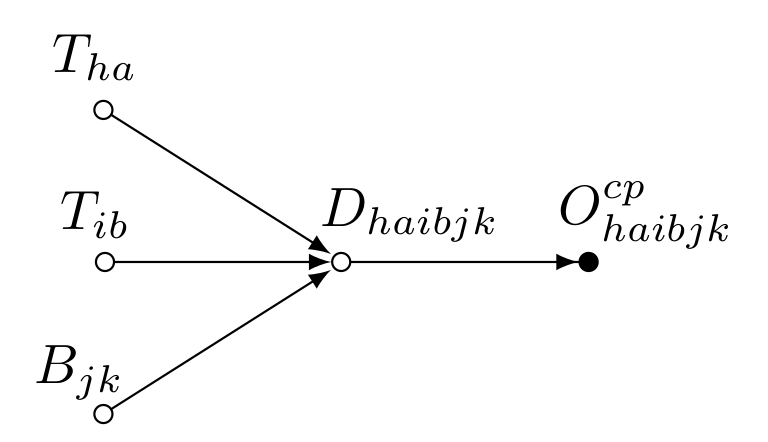
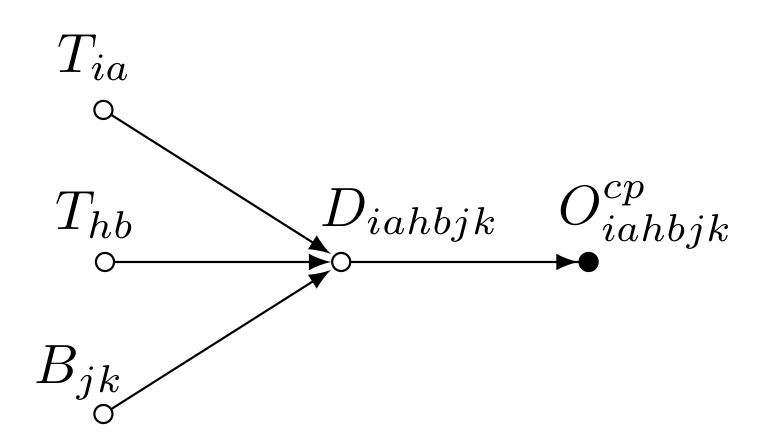
section:5; process:write,formulas

diff --git a/images/text/CJ_TM_02.tex b/images/text/CJ_TM_02.tex
@@ -8,20 +8,20 @@
 \begin{tikzpicture}
 
     % outcome
-    \node[gray] at (3.5,1) {$O^{cp}_{haibjk}$}; %[gray]
+    \node[gray] at (3.5,1) {$O^{cp}_{iahbjk}$}; %[gray]
 
     % difference
-    \node[gray] at (2,1) {$D_{haibjk}$}; %[gray]
+    \node[gray] at (2,1) {$D_{iahbjk}$}; %[gray]
     \draw[{Circle[open]}-{latex}{Circle},gray](1.5,0.7) to (3.2,0.7); %,gray
 
     %%%%%%%%%%%%%%%%%%%%%%%%%%%%%%%%%%%%%%%%%%%%%%%%%%%%%%%%%
 
     % "true" discriminal process for sub-unit
-    \node at (0,2) {$T_{ha}$}; %[gray]
+    \node at (0,2) {$T_{ia}$}; %[gray]
     \draw[{Circle[open]}-{latex}](0,1.7) to (1.5,0.75); %,gray 
     
     % "true" discriminal process for sub-unit
-    \node at (0,1) {$T_{ib}$}; %[gray]
+    \node at (0,1) {$T_{hb}$}; %[gray]
     \draw[{Circle[open]}-{latex}](0,0.7) to (1.5,0.7); %,gray
     
     % judges' biases

diff --git a/images/text/CJ_TM_01.tex b/images/text/CJ_TM_01.tex
@@ -8,20 +8,20 @@
 \begin{tikzpicture}
 
     % outcome
-    \node at (3.5,1) {$O^{cp}_{haibjk}$}; %[gray]
+    \node at (3.5,1) {$O^{cp}_{iahbjk}$}; %[gray]
 
     % difference
-    \node at (2,1) {$D_{haibjk}$}; %[gray]
+    \node at (2,1) {$D_{iahbjk}$}; %[gray]
     \draw[{Circle[open]}-{latex}{Circle}](1.5,0.7) to (3.2,0.7); %,gray
 
     %%%%%%%%%%%%%%%%%%%%%%%%%%%%%%%%%%%%%%%%%%%%%%%%%%%%%%%%%
 
     % "true" discriminal process for sub-unit
-    %\node at (0,2) {$T_{ha}$}; %[gray]
+    %\node at (0,2) {$T_{ia}$}; %[gray]
     %\draw[{Circle[open]}-{latex}](0,1.7) to (1.5,0.75); %,gray 
     
     % "true" discriminal process for sub-unit
-    %\node at (0,1) {$T_{ib}$}; %[gray]
+    %\node at (0,1) {$T_{hb}$}; %[gray]
     %\draw[{Circle[open]}-{latex}](0,0.7) to (1.5,0.7); %,gray
     
     % judges' biases

diff --git a/images/text/CJ_TM_03.tex b/images/text/CJ_TM_03.tex
@@ -8,20 +8,20 @@
 \begin{tikzpicture}
 
     % outcome
-    \node at (3.5,1) {$O^{cp}_{haibjk}$}; %[gray]
+    \node at (3.5,1) {$O^{cp}_{iahbjk}$}; %[gray]
 
     % difference
-    \node at (2,1) {$D_{haibjk}$}; %[gray]
+    \node at (2,1) {$D_{iahbjk}$}; %[gray]
     \draw[{Circle[open]}-{latex}{Circle}](1.5,0.7) to (3.2,0.7); %,gray
 
     %%%%%%%%%%%%%%%%%%%%%%%%%%%%%%%%%%%%%%%%%%%%%%%%%%%%%%%%%
 
     % "true" discriminal process for sub-unit
-    \node at (0,2) {$T_{ha}$}; %[gray]
+    \node at (0,2) {$T_{ia}$}; %[gray]
     \draw[{Circle[open]}-{latex}](0,1.7) to (1.5,0.75); %,gray 
     
     % "true" discriminal process for sub-unit
-    \node at (0,1) {$T_{ib}$}; %[gray]
+    \node at (0,1) {$T_{hb}$}; %[gray]
     \draw[{Circle[open]}-{latex}](0,0.7) to (1.5,0.7); %,gray
     
     % judges' biases
